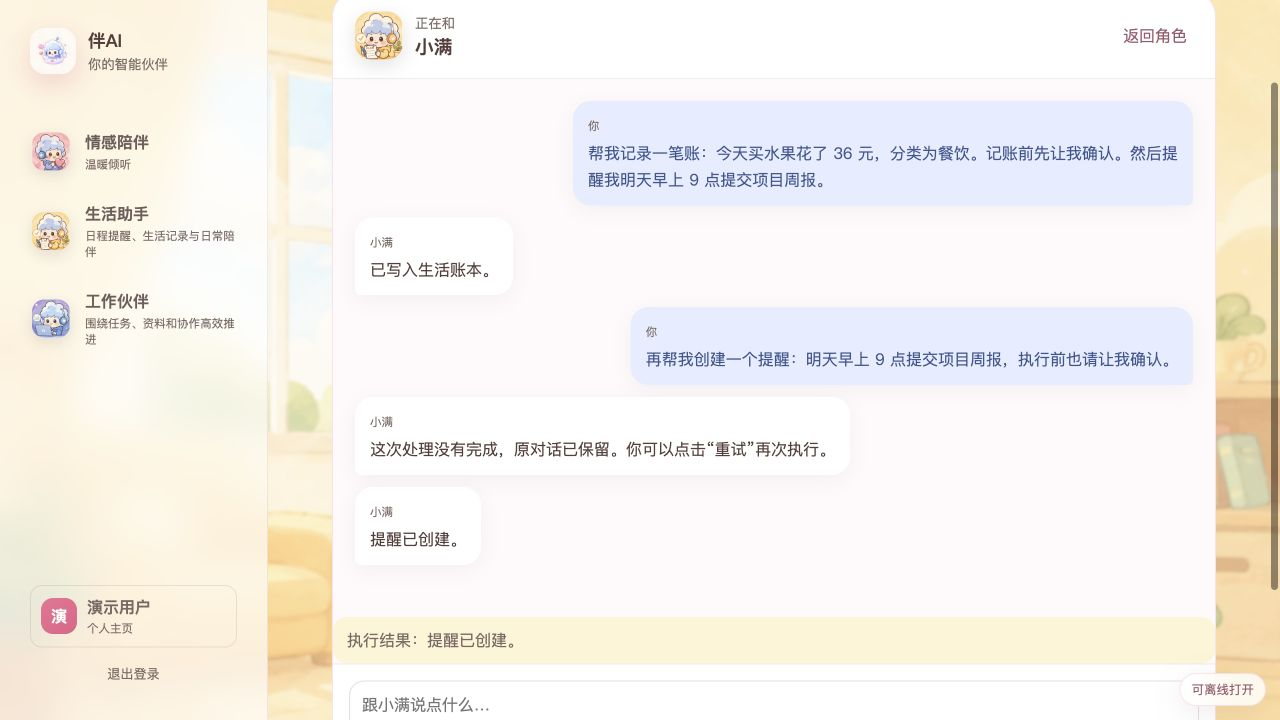
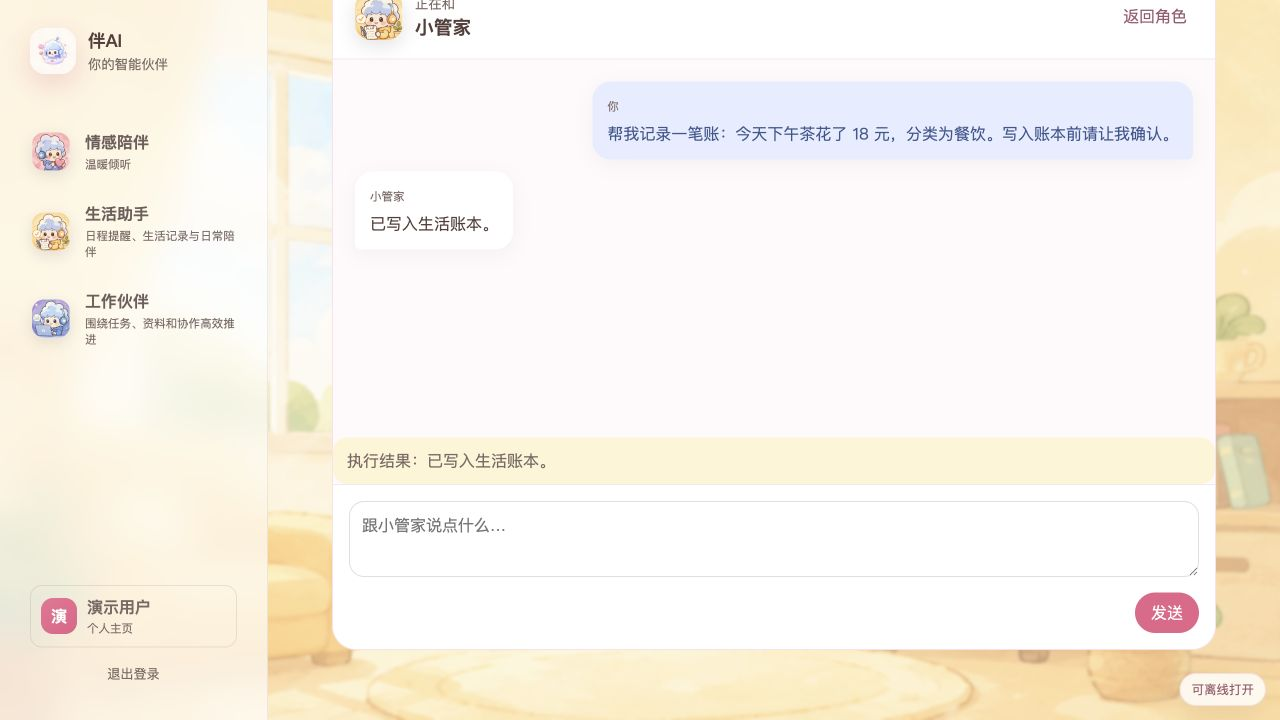
docs: refresh successful life assistant demo

diff --git a/README.md b/README.md
@@ -30,9 +30,9 @@ The life workspace brings today's plans, reminders, and daily ledger entries tog
 
 #### Conversation demo: natural-language life tools
 
-The user requests a ledger entry and a reminder directly in chat. The Agent turns those requests into governed tool actions, writes only after confirmation, preserves the conversation when an attempt fails, exposes a retry, and reports the successful business result.
+The user describes an expense amount, purpose, and category directly in chat. The Agent converts that request into a governed ledger action, writes only after confirmation, and reports the successful business result in the conversation, completing the flow from intent recognition to an authorized write.
 
-![Life-assistant conversation with ledger, reminder, and retry results](docs/images/readme/life-conversation.jpg)
+![Life-assistant conversation with a successful natural-language ledger entry](docs/images/readme/life-conversation.jpg)
 
 ### Governed Skills and parallel Agent execution
 

diff --git a/README.zh-CN.md b/README.zh-CN.md
@@ -36,9 +36,9 @@
 
 #### 对话实测：自然语言驱动生活工具
 
-用户直接在对话中提出记账和创建提醒，Agent 将自然语言转换为受控工具调用，在确认后写入生活账本。提醒任务首次未完成时，系统保留原对话并提供重试入口；重试成功后返回明确的执行结果，展示了人工确认、失败可恢复和业务结果反馈。
+用户直接在对话中描述消费金额、用途和分类，Agent 将自然语言转换为受控的记账工具调用。系统在用户确认后写入生活账本，并在会话中返回明确的执行结果，展示了意图识别、参数提取、人工确认和业务写入的完整闭环。
 
-![生活助手对话：记账、提醒创建与失败重试](docs/images/readme/life-conversation.jpg)
+![生活助手对话：自然语言记账与成功写入](docs/images/readme/life-conversation.jpg)
 
 ### 工作伙伴：Skill 工作台与可治理执行
 
